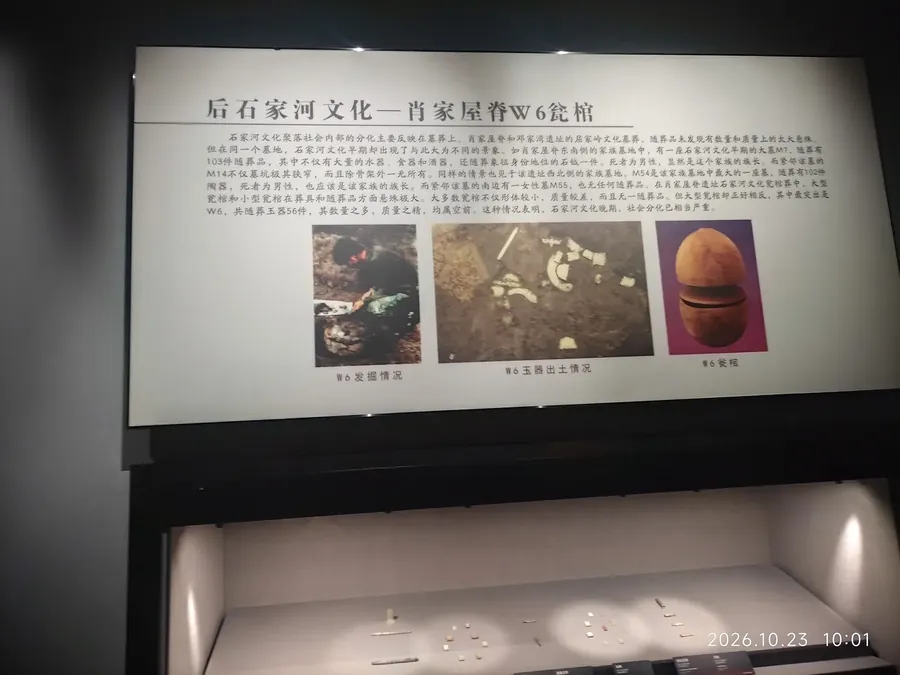
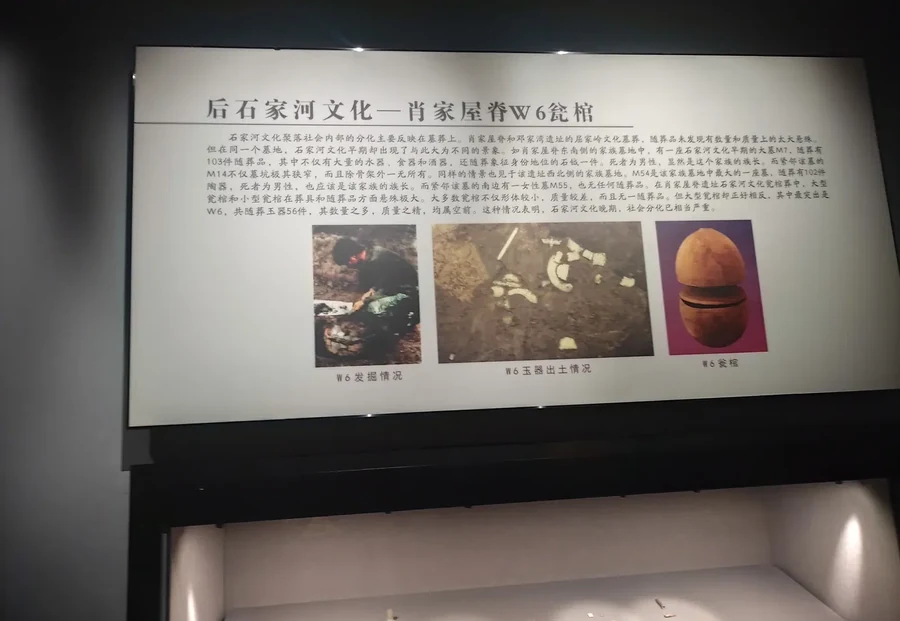
fix(blog): 日期水印改裁切去除 + 步道双图并排 + 专栏更名随行漫记
- 全部照片重处理：不再模糊，直接裁掉底部日期条；画质提升（q88，封面 q78）
- 京都神社步道与荆州城墙步道改 .post-fig-duo 并排对比
  （flex 双列，≤600px 纵向堆叠，CDP 1200/390 验证零溢出）
- 专栏「博物馆漫记」更名「随行漫记」（column_key 与 URL 不变，链接不断）
- 图片尺寸属性同步裁切后比例，防 CLS

diff --git a/assets/css/blog.css b/assets/css/blog.css
@@ -417,3 +417,10 @@ a.col-card:hover,a.col-card:focus-visible{border-color:var(--accent2);box-shadow
   border:1px solid var(--line);border-radius:999px;padding:1px 9px
 }
 .tagset-chip i{font-style:normal;color:var(--accent2);margin-left:4px}
+
+/* 双图并排对比（.post-fig-duo > figure + figcaption） */
+.post-fig-duo{display:flex;gap:12px;align-items:flex-start;margin:26px 0}
+.post-fig-duo figure{flex:1 1 0;min-width:0;margin:0}
+.post-fig-duo img{width:100%;height:auto}
+.post-fig-duo figcaption{font-size:12px}
+@media (max-width:600px){.post-fig-duo{flex-direction:column;gap:16px}}

diff --git a/_posts/2026-10-23-jingzhou-museum-ningjingli.md b/_posts/2026-10-23-jingzhou-museum-ningjingli.md
@@ -64,7 +64,7 @@ schema_faq:
 左边的大墓 M7，随葬品一百零三件，其中不乏精美的玉器；右边的 M14，墓坑极其窄小，除了一副骨架，几乎一无所获。而旁边那座肖家屋脊 W6 瓮棺更夸张：随葬玉器五十六件，数量之多、质量之精，均属空前。
 
 <figure>
-  <img src="/assets/images/blog/jingzhou-w6-urn.webp" alt="后石家河文化肖家屋脊W6瓮棺展板：文字说明与出土照片，显示该瓮棺随葬玉器五十六件" width="900" height="675" loading="lazy" decoding="async">
+  <img src="/assets/images/blog/jingzhou-w6-urn.webp" alt="后石家河文化肖家屋脊W6瓮棺展板：文字说明与出土照片，显示该瓮棺随葬玉器五十六件" width="900" height="621" loading="lazy" decoding="async">
   <figcaption>后石家河文化 · 肖家屋脊 W6 瓮棺展板——随葬玉器五十六件，「均属空前」</figcaption>
 </figure>
 
@@ -75,7 +75,7 @@ schema_faq:
 ## 第三站：青瓷坞堡——堡垒与它留在地名里的痕迹
 
 <figure>
-  <img src="/assets/images/blog/jingzhou-wubao.webp" alt="荆州博物馆藏西晋青瓷坞堡：高墙、角楼与院落组成的微缩防御性庄园" width="900" height="675" loading="lazy" decoding="async">
+  <img src="/assets/images/blog/jingzhou-wubao.webp" alt="荆州博物馆藏西晋青瓷坞堡：高墙、角楼与院落组成的微缩防御性庄园" width="900" height="621" loading="lazy" decoding="async">
   <figcaption>西晋 · 青瓷坞堡——高墙、角楼、深院，一座微缩的防御工事</figcaption>
 </figure>
 
@@ -88,7 +88,7 @@ schema_faq:
 ## 第四站：复合剑——把工艺规律默会于心
 
 <figure class="post-fig--small">
-  <img src="/assets/images/blog/jingzhou-sword.webp" alt="荆州博物馆藏青铜复合剑：剑脊与剑刃以不同含锡量的青铜分铸嵌合" width="480" height="360" loading="lazy" decoding="async">
+  <img src="/assets/images/blog/jingzhou-sword.webp" alt="荆州博物馆藏青铜复合剑：剑脊与剑刃以不同含锡量的青铜分铸嵌合" width="480" height="330" loading="lazy" decoding="async">
   <figcaption>青铜复合剑——脊韧刃利，两种配比分铸嵌合</figcaption>
 </figure>
 
@@ -103,28 +103,29 @@ schema_faq:
 ## 出了博物馆：城门洞与神社灯笼——给自己划一道「结界」
 
 <figure class="post-fig--small">
-  <img src="/assets/images/blog/jingzhou-binyang-gate.webp" alt="荆州宾阳楼城门：灰砖城台上灯笼与红旗，拱形门洞上嵌着「寅宾门」石匾" width="640" height="853" loading="lazy" decoding="async">
+  <img src="/assets/images/blog/jingzhou-binyang-gate.webp" alt="荆州宾阳楼城门：灰砖城台上灯笼与红旗，拱形门洞上嵌着「寅宾门」石匾" width="640" height="793" loading="lazy" decoding="async">
   <figcaption>宾阳楼下的「寅宾门」——我没有登楼，钻进了门洞</figcaption>
 </figure>
 
 去宾阳楼的时候，我没有买票登顶，而是钻进了那个巨大的城门洞。
 
 <figure class="post-fig--small">
-  <img src="/assets/images/blog/jingzhou-gate-vault.webp" alt="荆州城门洞内部：砖石拱券层层收拢，光线从两端洞口透进来" width="640" height="853" loading="lazy" decoding="async">
+  <img src="/assets/images/blog/jingzhou-gate-vault.webp" alt="荆州城门洞内部：砖石拱券层层收拢，光线从两端洞口透进来" width="640" height="793" loading="lazy" decoding="async">
   <figcaption>门洞内部——砖石包裹出的封闭感，像一座城堡</figcaption>
 </figure>
 
 砖石包裹的厚重感，给人一种极其私密的、被保护的安全感。这让我想起一段京都神社步道的视频截图：林间小路尽头的红色灯笼，是用来划分「神域」与「俗世」的结界。
 
-<figure>
-  <img src="/assets/images/blog/kyoto-shrine-path.webp" alt="日本京都神社林间步道的视频截图：幽暗森林小径旁立着红色灯笼" width="900" height="545" loading="lazy" decoding="async">
-  <figcaption>京都某神社步道（视频截图）——灯笼与鸟居划定「神域」的边界</figcaption>
-</figure>
-
-<figure class="post-fig--small">
-  <img src="/assets/images/blog/jingzhou-wall-path.webp" alt="荆州城墙顶部的步道实拍：石板路沿城墙延伸，一侧是垛口，一侧是茂密的树" width="540" height="720" loading="lazy" decoding="async">
-  <figcaption>城墙顶的步道（作者实拍）——走上去，喧嚣就留在墙外了</figcaption>
-</figure>
+<div class="post-fig-duo">
+  <figure>
+    <img src="/assets/images/blog/kyoto-shrine-path.webp" alt="日本京都神社林间步道的视频截图：幽暗森林小径旁立着红色灯笼" width="900" height="545" loading="lazy" decoding="async">
+    <figcaption>京都某神社步道（视频截图）——灯笼划定「神域」</figcaption>
+  </figure>
+  <figure>
+    <img src="/assets/images/blog/jingzhou-wall-path.webp" alt="荆州城墙顶部的步道实拍：石板路沿城墙延伸，一侧是垛口，一侧是茂密的树" width="540" height="669" loading="lazy" decoding="async">
+    <figcaption>荆州城墙顶步道（作者实拍）——喧嚣留在墙外</figcaption>
+  </figure>
+</div>
 
 荆州的城门洞也是一种结界：从宣讲会、论文和 AI 焦虑里暂时抽离出来的物理隔离。结界不一定要花钱，也不一定要远行——一段不看手机的城墙步道、一个关掉通知的下午、一间只放纸笔的书桌，都是同一种东西：一块你说了算的物理与心理边界。<p class="post-mark post-mark--verdict"><mark class="post-mark__verdict">宁静力的前提，是为自己设定结界——知道何时关闭信息流，何时退回自己的「坞堡」。</mark></p>
 
@@ -138,4 +139,4 @@ schema_faq:
 
 ---
 
-**延伸阅读**：[在湖北省博，与勾践剑擦肩而过](/blog/hubei-museum-goujian-sword/)（博物馆漫记 · 上一篇）｜ [安安稳稳地在小城市过一生，真的那么不堪吗？](https://www.zhihu.com/question/387024332/answer/2034268795578077717)（宁静力）｜ [聊聊我的AI创作工作流：AI替代不了的活人感](/blog/ai-workflow-huorenkan/) ｜ [一场好的旅行是什么样的？](https://afdian.com/p/45652e8c87a411efada55254001e7c00)（于无声处听惊雷）
+**延伸阅读**：[在湖北省博，与勾践剑擦肩而过](/blog/hubei-museum-goujian-sword/)（随行漫记 · 上一篇）｜ [安安稳稳地在小城市过一生，真的那么不堪吗？](https://www.zhihu.com/question/387024332/answer/2034268795578077717)（宁静力）｜ [聊聊我的AI创作工作流：AI替代不了的活人感](/blog/ai-workflow-huorenkan/) ｜ [一场好的旅行是什么样的？](https://afdian.com/p/45652e8c87a411efada55254001e7c00)（于无声处听惊雷）

diff --git a/_columns/museum-notes.md b/_columns/museum-notes.md
@@ -1,7 +1,7 @@
 ---
 layout: page
-title: "博物馆漫记"
-seo_title: "博物馆漫记 · 专栏 | 超人蛋 · 彭俊超"
+title: "随行漫记"
+seo_title: "随行漫记 · 专栏 | 超人蛋 · 彭俊超"
 description: "从湖北省博到荆州博物馆：把展厅当成观察社会的切片，看文物怎么回答今天的焦虑。一个持续更新的看展系列。"
 permalink: /columns/museum-notes/
 column_key: museum-notes
@@ -9,7 +9,7 @@ icon: "🏛"
 lang: "zh"
 ---
 
-# 博物馆漫记
+# 随行漫记
 
 这个系列记录我看过的博物馆：湖北省博、荆州博物馆……不追「镇馆之宝」的打卡清单，而是把展厅当成一个观察社会的切片——一件瓷器压着多少时间，一座坞堡留下什么地名，一块墓葬展板如何剧透几千年后的分化。文物的答案，常常比宣讲会上任何一句话都更让人安心。
 
